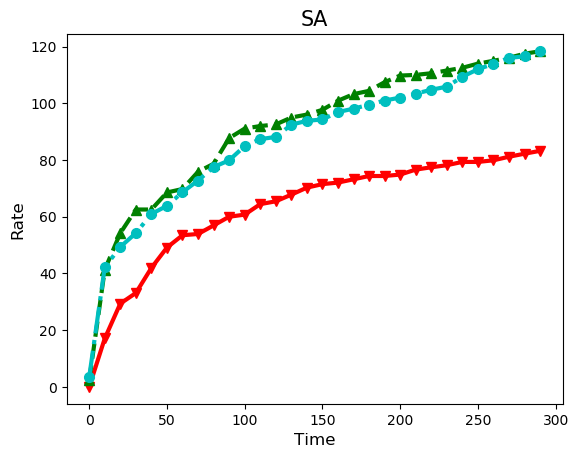
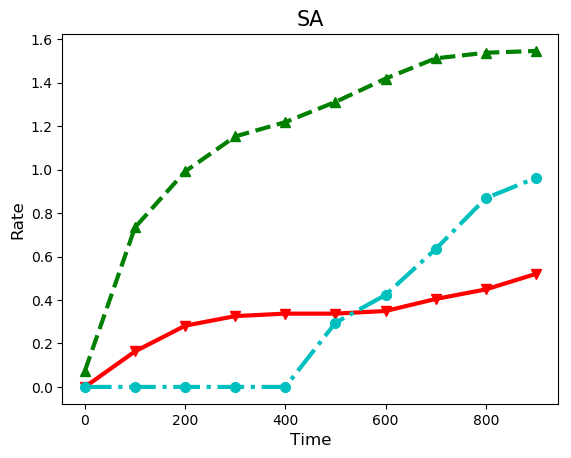
Add punishment

diff --git a/ongoing/code/src/functions.cpp b/ongoing/code/src/functions.cpp
@@ -11,9 +11,9 @@
 #include "constants.h"
 
 // stackoverflow.com/questions/29877760/boostublas-how-to-get-determinant-of-int-matrix?rq=1
-Comp determinant(Mat m)
+Comp determinant(const Mat& mm)
 {
-    //std::cout << "m= " << m << std::endl; //XXX
+    Mat m =mm;
     ublas::permutation_matrix<std::size_t> pivots( m.size1() );
     auto be_singular = ublas::lu_factorize(m, pivots);
     if (be_singular) {return 0;}
@@ -29,14 +29,14 @@ Comp determinant(Mat m)
     return det;
 }
 
-double frob_norm(Mat& m)
+double frob_norm(const Mat& m)
 {
    double ret =0;
    for(std::size_t i=0; i<=cst::nn-1; i++)
       for(std::size_t j=0; j<=cst::nn-1; j++)
       {
-         double hold_entry =std::abs( m(i,j) );
-         ret =ret +hold_entry *hold_entry; // hold
+         double hold_abs =std::abs( m(i,j) );
+         ret =ret +hold_abs *hold_abs; // hold
       }
    ret =std::sqrt(ret);
    return ret;
@@ -49,7 +49,6 @@ Mat get_array_response(double psi, std::size_t len)
    {
       ret(n,0) =std::exp(cst::ii *static_cast<double>(n) *psi);
    }
-   //std::cout << "arr= " << ret << std::endl; //XXX
    return ret;
 }
 
@@ -63,19 +62,14 @@ void set_rand_channel( Mat& h )
       for(std::size_t n_s=0; n_s <cst::nn_s-1; n_s++)
       {
          double delta =static_cast<double> (rand()) /RAND_MAX -0.5;
-         delta =cst::spread *delta *delta *delta;// [0,cst::spread]
-         double psi= mu+delta;// [-1-cst::spread, 1+cst::spread]
+         delta =cst::spread *delta *delta *delta;// [0, cst::spread *0.5]
+         double psi= mu+delta;// [-1-cst::spread *0.5, 1+cst::spread *0.5]
          if( psi > 1 ){ psi =psi-2; }
          if( psi < -1 ){ psi =psi+2; }
          psi =cst::pi*(psi+1);
-         //std::cout << "psi= " << psi << std::endl; //XXX
          Mat a_t =get_array_response(cst::a_t_phase *psi,cst::nn);
          Mat tr_a_r =ublas::trans(get_array_response(cst::a_r_phase *psi,cst::nn));
-         //std::cout << "a_t= " << a_t << std::endl; //XXX
-         //std::cout << "tr_a_r= " << tr_a_r << std::endl; //XXX
          h= h +ublas::prod( a_t, tr_a_r );
-         //std::cout << "h= " << h << std::endl; //XXX
-      
       }
    }
 }
@@ -95,13 +89,13 @@ void set_random_step(Map_mat* p_map_d)
          for(std::size_t j=0; j<=cst::nn-1; j++)
             m(i,j) =static_cast<double> (rand()) /RAND_MAX;
       m =m /frob_norm(m);
-      //std::cout << "d= " << m << std::endl;//XXX
    }
 }
 
 double find_new_sum_rate(Map_mat* p_map_h, Map_mat* p_map_f, Map_mat* p_map_d)
 {
    double ret =0;
+   // sum rate
    for(std::size_t k=0; k<=cst::kk-1; k++)
    {
       double sq_norm[cst::uu];
@@ -109,17 +103,23 @@ double find_new_sum_rate(Map_mat* p_map_h, Map_mat* p_map_f, Map_mat* p_map_d)
       for(std::size_t u=0; u<=cst::uu-1; u++)
       {
          std::size_t f =k /cst::s_blk_kk +(u /cst::s_blk_uu) *cst::nn_blk_kk;
-         //std::cout << "h= " << (*p_map_h)[k] << std::endl; //XXX
-         //std::cout << "f= " << (*p_map_f)[f] << std::endl; //XXX
          Mat hold_eff_h =ublas::prod( (*p_map_h)[k], ((*p_map_f)[f] +(*p_map_d)[f]) );
-         //std::cout << "eff= " << hold_eff_h << std::endl; //XXX
          sq_norm[u] =std::abs( determinant(hold_eff_h) );// hold
          sq_norm[u] =sq_norm[u] * sq_norm[u];
-         //std::cout << "norm= " << sq_norm[u] << std::endl; //XXX
          sum_sq_norm +=sq_norm[u];
          ret =ret +std::log( 1 +(sq_norm[u]) /(1 +sum_sq_norm -sq_norm[u]) );
       }
    }
+
+   // punishment
+   double hold_pp_punish =1;
+   for(std::size_t f=0; f<=cst::ff-1; f++)
+   {
+      double hold =cst::pp -frob_norm( (*p_map_f)[f] +(*p_map_d)[f] );
+      hold =1 /(hold *hold);
+      hold_pp_punish /=(1 +std::exp(hold));
+   }
+   ret *= hold_pp_punish;
    return ret;
 }
 
@@ -137,16 +137,11 @@ void simulated_annealing( double cooling_param, std::ostream* p_ios )
    double temp =cst::temp_init;
    Map_mat map_f;
    for(std::size_t f=0; f<=cst::ff-1; f++)
-      { map_f[f] =ublas::zero_matrix <Comp> (cst::nn, cst::nn);
-        //std::cout << "f= " << map_f[f] << std::endl; //XXX
-      
-      }
+      { map_f[f] =ublas::zero_matrix <Comp> (cst::nn, cst::nn); }
 
    Map_mat map_h;
    for(std::size_t i=0; i<=cst::kk-1; i++)
-      { set_rand_channel(map_h[i]);
-        //std::cout << "h= " << map_h[i] << std::endl; //XXX
-      }
+      { set_rand_channel(map_h[i]); }
 
    double old_sum_rate =0;
    double new_sum_rate =0;
@@ -158,9 +153,6 @@ void simulated_annealing( double cooling_param, std::ostream* p_ios )
    {
       set_random_step(&map_d);
       new_sum_rate =find_new_sum_rate(&map_h, &map_f, &map_d);
-
-      //std::cout << "temp= " << temp << std::endl;//XXX
-      //std::cout << "rate= " << new_sum_rate << std::endl;//XXX
 
       double bar =new_sum_rate -old_sum_rate;
       if( static_cast<double> (rand()) /RAND_MAX >std::exp(-bar/temp) )

diff --git a/ongoing/code/src/constants.cpp b/ongoing/code/src/constants.cpp
@@ -21,9 +21,10 @@ namespace cst
    extern const std::size_t ff =(kk/s_blk_kk) *(uu/s_blk_uu); // # of different precoders
    extern const std::size_t nn_c =6; // # of cluster
    extern const std::size_t nn_s =6; // # of scatterer
-   extern const std::size_t t_record =10; // interval between subsequent record
-   extern const std::size_t t_change_temp =5; // interval between subsequent record
-   extern const double max_iter =300;
+   extern const double pp =100; // maximum power
+   extern const std::size_t t_record =100; // interval between subsequent record
+   extern const std::size_t t_change_temp =10; // interval between subsequent record
+   extern const double max_iter =1000;
    extern const double delta =0.3; // simulation step
    extern const double temp_init =1; // initial temperature
    extern const double arr_cooling_param[] ={0.99, 0.98, 0.97};

diff --git a/ongoing/code/src/read_and_draw.py b/ongoing/code/src/read_and_draw.py
@@ -18,7 +18,7 @@ list_line =content.split('\n') # newline as delimiter
 # to set axis & title
 #plt.close("all")
 fig =plt.figure()
-plt.title( "SA", fontsize =15 )
+plt.title( "Simulated Annealing", fontsize =15 )
 plt.xlabel( "Time", fontsize =12 )
 plt.ylabel( "Rate", fontsize =12 )
 
@@ -70,9 +70,5 @@ for idx, line in enumerate(list_line):
 # end for each line
 
 # to set legend and save figure
-#distShift =-9.0 # shifted, to the left, considerably
-#plt.legend( loc='center left', borderaxespad =distShift )
-#fig.show()
 fig.savefig( out_fig_path, bbox_inches ="tight" )
-#plt.show()
 

diff --git a/ongoing/code/src/functions.h b/ongoing/code/src/functions.h
@@ -4,8 +4,8 @@
 #include "constants.h"
 //extern typedef Vec;
 
-Comp determinant(Mat);
-double frob_norm(Mat&);
+Comp determinant(const Mat&);
+double frob_norm(const Mat&);
 Mat get_array_response(double, std::size_t);
 void set_rand_channel( Mat& );
 void accept_random_step(Map_mat*, Map_mat*);

diff --git a/ongoing/code/src/constants.h b/ongoing/code/src/constants.h
@@ -28,6 +28,7 @@ namespace cst
    extern const std::size_t ff;
    extern const std::size_t nn_c;
    extern const std::size_t nn_s;
+   extern const double pp;
    extern const std::size_t t_record;
    extern const std::size_t t_change_temp;
    extern const double max_iter;
